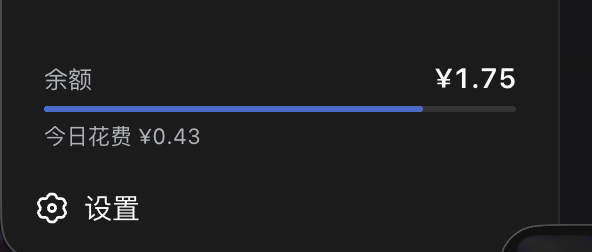
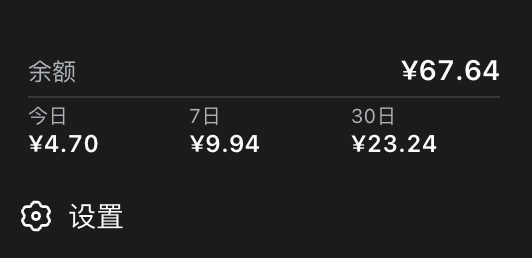
docs: replace preview screenshot with the current card layout

diff --git a/README.en.md b/README.en.md
@@ -11,8 +11,6 @@ A minimal [DeepSeek Harness](https://github.com/deepseek-ai/deepseek-harness) (d
   <img src="docs/preview/balance-rail.png" alt="dsh-balance-monitor collapsed to the rail" width="56">
 </p>
 
-> The previews show the early layout; the current card is a "Balance" line plus a three-cell today / 7d / 30d spend-window row (the ratio bar is gone).
-
 ## Features
 
 | What | How |

diff --git a/README.md b/README.md
@@ -11,8 +11,6 @@ DeepSeek 余额与花费窗口，直接显示在 dsh 侧边栏底部。
   <img src="docs/preview/balance-wide.png" alt="侧边栏底部余额卡片" width="280">
 </p>
 
-> 预览图为早期布局；最新版为「余额」一行 + 「今日 / 7日 / 30日」三列花费窗口，中间比例条已移除。
-
 ## 功能
 
 | 功能 | 实现 |
